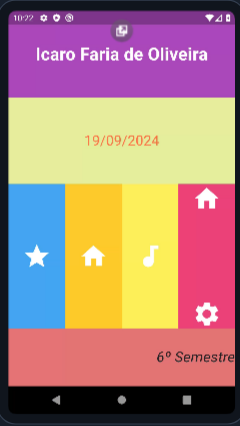
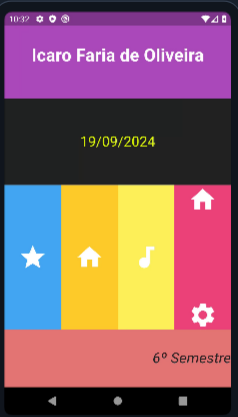
Prova 1-Corrigido

diff --git a/layout2/lib/main.dart b/layout2/lib/main.dart
@@ -6,7 +6,7 @@ void main() {
 
 class MyApp extends StatelessWidget {
   const MyApp({super.key});
-  
+
   @override
   Widget build(BuildContext context) {
     return MaterialApp(
@@ -66,13 +66,13 @@ class Layout extends StatelessWidget {
           children: [
             Expanded(
               child: Container(
-                color: Colors.lime[200], // cor verde limão tonalidade 200
+                color: Colors.grey[900], // cor de fundo escura para contraste
                 height: 150,
                 child: const Center(
                   child: Text(
                     '19/09/2024',
                     style: TextStyle(
-                      color: Colors.white, // cor branca no texto
+                      color: Color(0xFFE6FF00), // cor verde limão tonalidade 200
                       fontSize: 24, // tamanho da fonte 24
                     ),
                   ),
@@ -129,7 +129,7 @@ class Layout extends StatelessWidget {
           height: 100,
           child: const Align(
             alignment: Alignment.centerRight,
-            child: Text( 
+            child: Text(
               '6º Semestre', // nome da turma
               style: TextStyle(
                 fontStyle: FontStyle.italic, // estilo itálico
